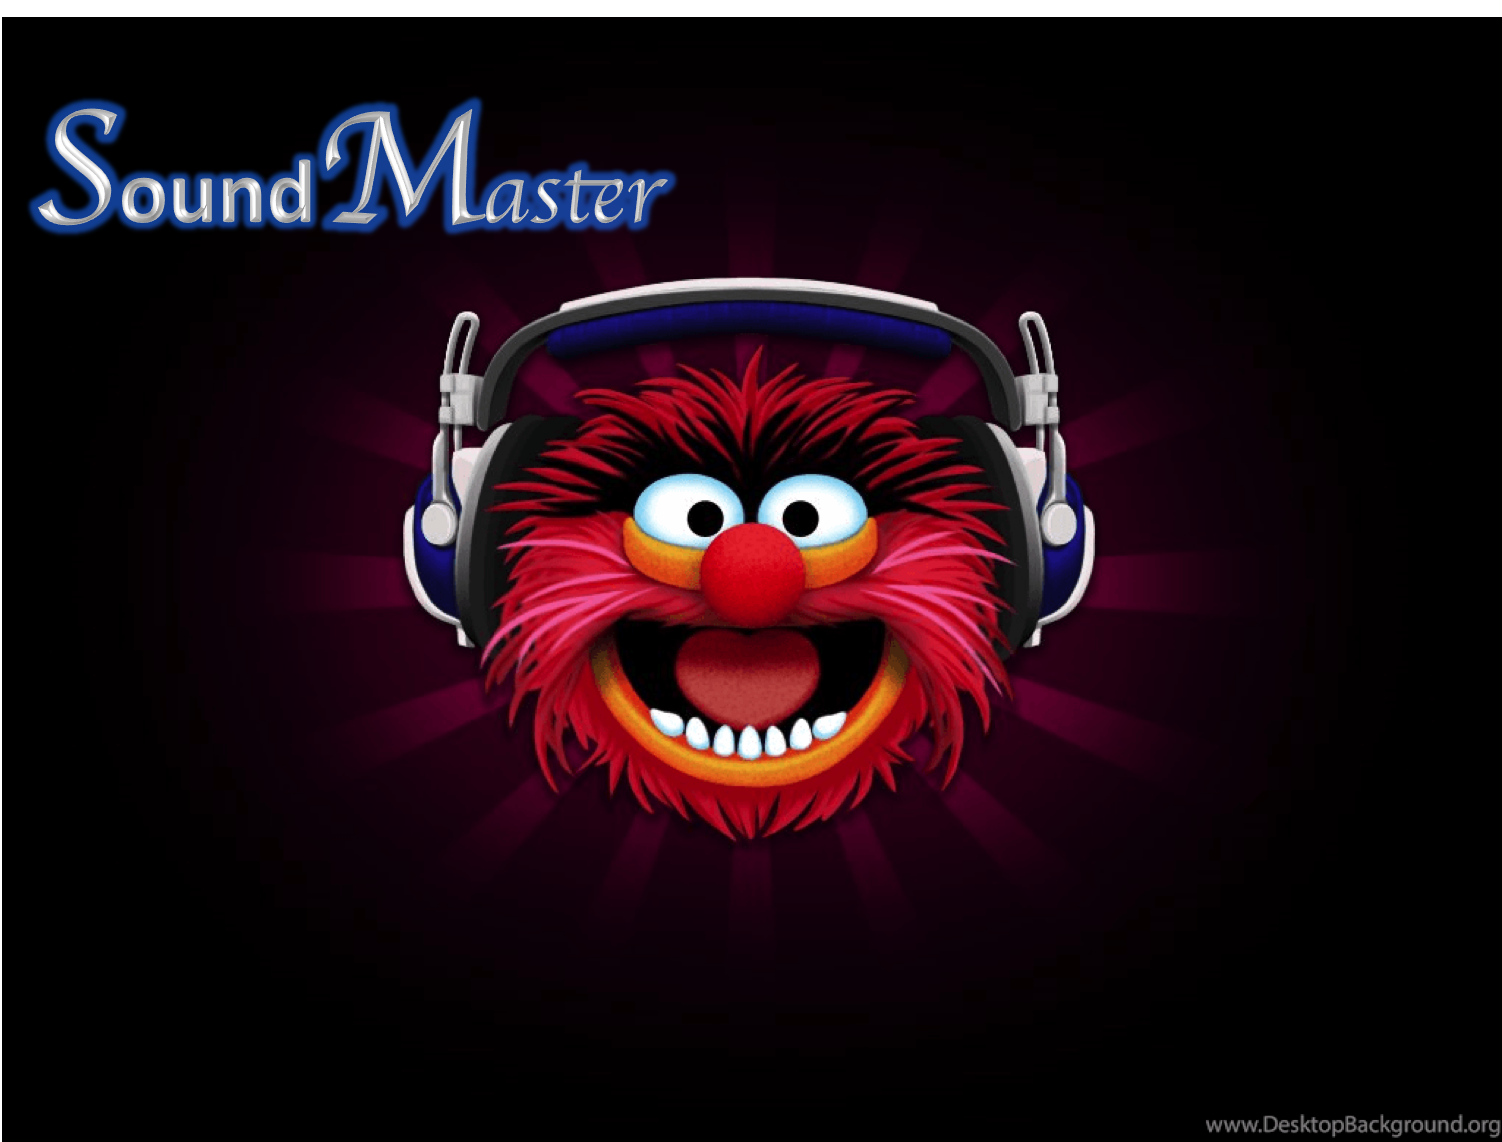
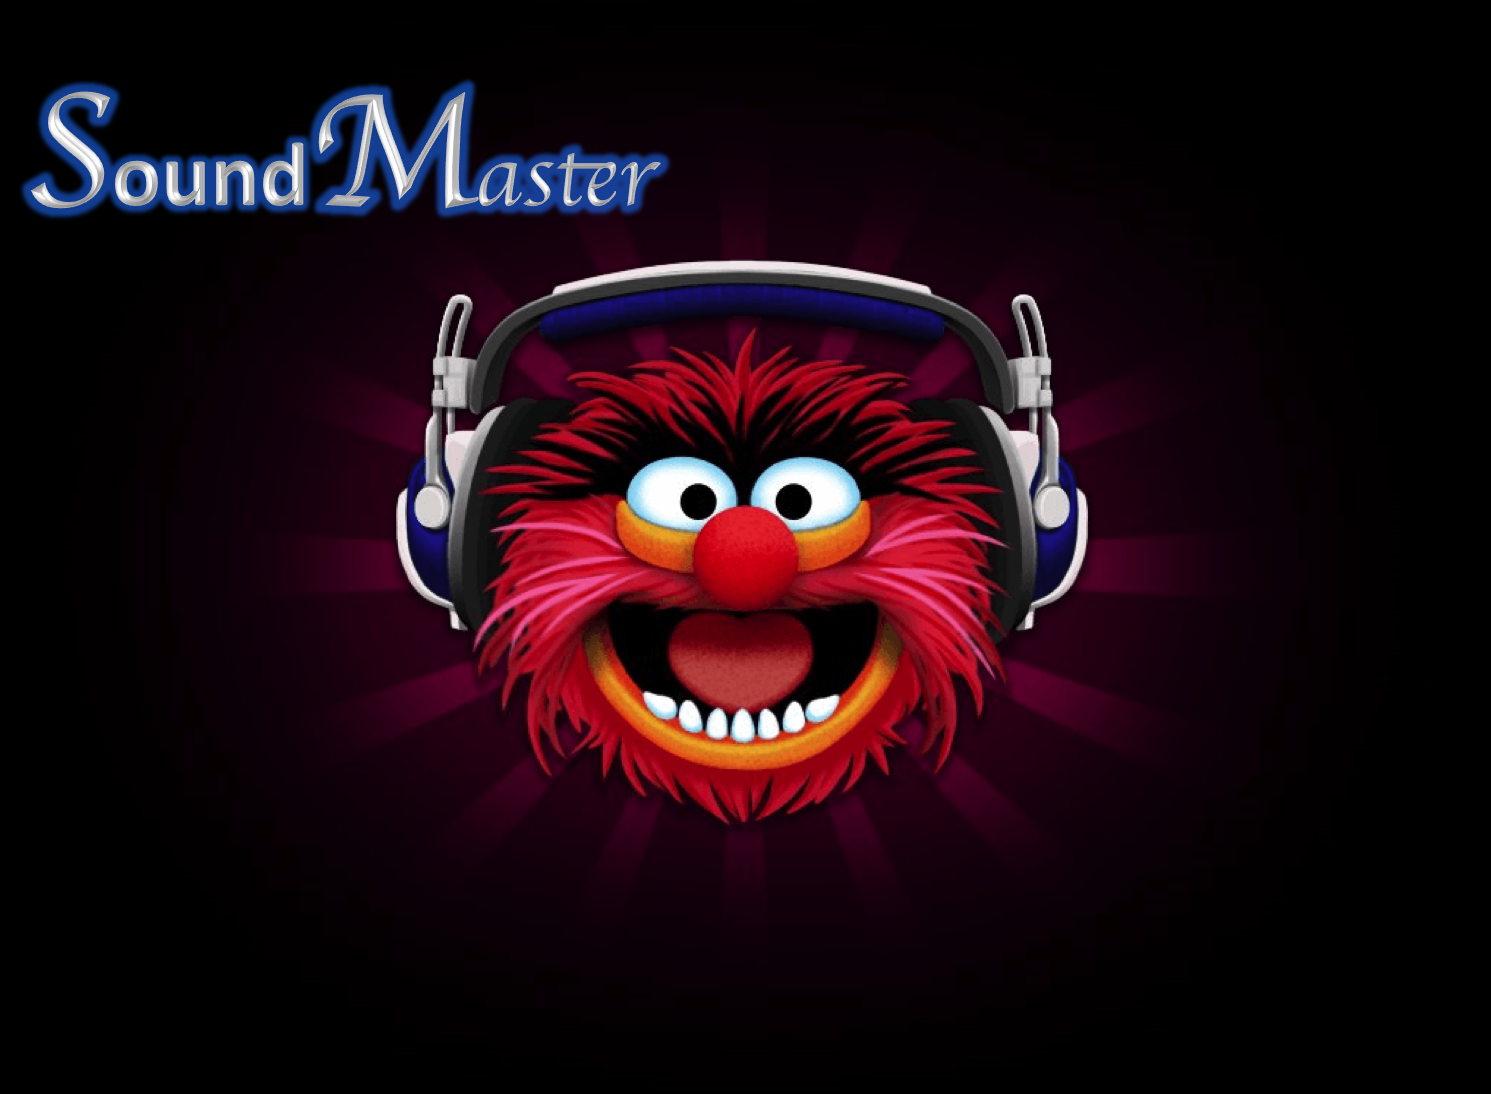
added styling for buttons, color, formatting

diff --git a/client/src/Components/AppPage.js b/client/src/Components/AppPage.js
@@ -1,11 +1,13 @@
 import React from "react";
 const createjs = window.createjs;
 
+
 function AppPage (props) {
  const sound1 = new Audio("https://project3-sounds.s3.us-east-2.amazonaws.com/Kick+Basic.wav");
  const sound2 = new Audio("https://project3-sounds.s3.us-east-2.amazonaws.com/Hat+Basic.wav");
  const sound3 = new Audio("https://project3-sounds.s3.us-east-2.amazonaws.com/Snare+Basic.wav");
  const sound4 = new Audio("https://project3-sounds.s3.us-east-2.amazonaws.com/Clap+Basic.wav");
+ const sound5 = new Audio("https://project3-sounds.s3.us-east-2.amazonaws.com/The+Industry+Collection/Multi+Samples/guitar/electric/Jazz+Guitar/Jazz+Guitar+C4.wav");
     return (
         <div
             className = "container" id="musicbtn">
@@ -15,6 +17,7 @@ function AppPage (props) {
    <div><button onMouseOver={() => sound3.play()} className="playSound" id="snare">Basic Snare Drum</button></div> 
    <div><button onMouseOver={() => sound4.play()} className="playSound" id="clap">Basic Clap Drum</button></div>
    <div><button onMouseOver={() => sound2.play()} className="playSound" id="hat">Basic Hat Drum</button></div>
+   <div><button onMouseOver={() => sound5.play()} className="playSound" id="jazzCguitar">Jazz Guitar C Note</button></div>
  </div>
  </div>
     )

diff --git a/client/src/Components/Recorder.js b/client/src/Components/Recorder.js
@@ -1,8 +1,9 @@
 import React from "react";
 import Recorderx, { ENCODE_TYPE } from "recorderx";
-const createjs = window.createjs;
+
 
 function Recorder(props) {
+    console.log("Hello World!!")
 
     const rc = new Recorderx();
 
@@ -17,13 +18,11 @@ function Recorder(props) {
 
 
     // pause recorderx
-    rc.pause();
-
-
+    rc.pause()
+    
     // get wave
     var wave = rc.getRecord({
         encodeTo: ENCODE_TYPE.WAV,
-        compressible: true
     })
 
     
@@ -33,7 +32,7 @@ function Recorder(props) {
 
             <div>
                 <div><button onClick={() => rc.start()} className="recording" id="record">Record</button></div>
-                <div><button onClickr={() => rc.pause()} className="recording" id="pause">Pause</button></div>
+                <div><button onClick={() => rc.pause()} className="recording" id="record">pause</button></div>
 
             </div>
         </div>
@@ -41,6 +40,6 @@ function Recorder(props) {
 
 
 
-}
+};
 
 export default Recorder

diff --git a/client/src/index.css b/client/src/index.css
@@ -1,7 +1,8 @@
 body {
   background-image: url("/assets/css/projectbackground.png");
   background-repeat: no-repeat;
-  background-size: 100%;
+  background-size: auto;
+  
 }
 
 code {
@@ -10,21 +11,52 @@ code {
 }
 
 .inner-container{
-  margin-left: 900px;
+  margin-left: 1050px;
 }
 
 .box-container{
-  margin-left: 900px;
+  margin-left: 1050px;
 }
 
 #musicbtn{
   margin-top: 300px;
 }
 
-button{
+.playSound{
 
   padding: 20px;
   width: 200px;
   margin-top: 10px;
+  background-color: purple;
+  transition: background-color .5s;
+  color: goldenrod;
+  
 
 }
+
+button{
+  background-color: purple;
+  color: goldenrod;
+  width: 300px;
+  height: 50px;
+  margin-top: 15px;
+
+}
+
+.input-group{
+  color: goldenrod;
+}
+
+.header{
+  color: goldenrod;
+}
+
+.login-btn{
+  color: goldenrod;
+  
+}
+
+/* .login-input{
+  background-color: white;
+  color: goldenrod;
+} */

diff --git a/client/src/Components/FormLogin.js b/client/src/Components/FormLogin.js
@@ -26,15 +26,15 @@ class FormLogin extends Component {
   render() {
     return (
       <div className="inner-container">
-        <div className="header">Login</div>
+        <div className="header">Login Below</div>
         <div className="box">
           <div className="input-group">
             <label htmlFor="username">Username</label>
             <input
               type="text"
               name="username"
-              className="loing-input"
-              placeholder="Username"
+              className="login-input"
+              placeholder="Username" 
             />
           </div>
           <div className="input-group">

diff --git a/client/src/App.js b/client/src/App.js
@@ -2,6 +2,7 @@ import React from "react";
 import { BrowserRouter as Router, Route } from "react-router-dom";
 import Container from "./Components/Container";
 import AppPage from "./Components/AppPage";
+import Recorder from "./Components/Recorder";
 
 function App() {
   return (
@@ -9,6 +10,7 @@ function App() {
       <div>
         <Route exact path="/" component={AppPage} />
         <Route path="/login" component={Container} />
+        <Route path="/recorder" component={Recorder} />
       </div>
     </Router>
   );

diff --git a/client/src/Components/FormRegister.js b/client/src/Components/FormRegister.js
@@ -26,7 +26,7 @@ class FormRegister extends Component {
   render() {
     return (
       <div className="inner-container">
-        <div className="header">Register</div>
+        <div className="header">Please Register</div>
         <div className="box">
           <div className="input-group">
             <label htmlFor="username">Username</label>

diff --git a/client/src/loginStyle.scss b/client/src/loginStyle.scss
@@ -122,7 +122,7 @@ $blue_theme: #70a1ff;
 //Input Placeholder
 .login-input::placeholder {
   font-family: Oxygen, sans-serif;
-  font-size: 16px; //color: rgba(46, 213, 116, 0.839);
+  font-size: 300px; //color: rgba(46, 213, 116, 0.839);
   color: rgba(15, 15, 15, 0.4);
 }
 
